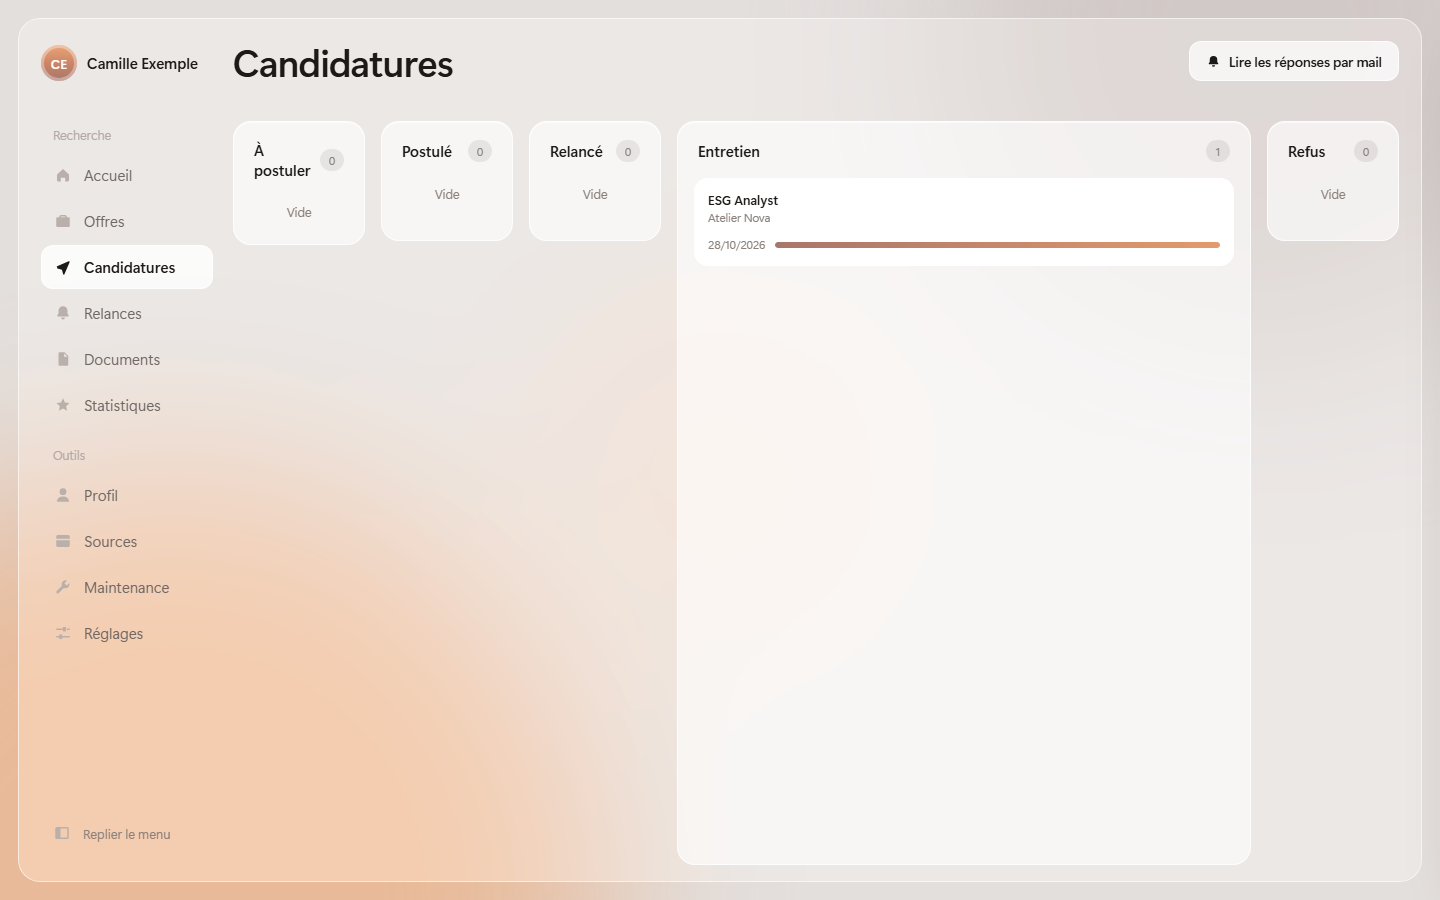
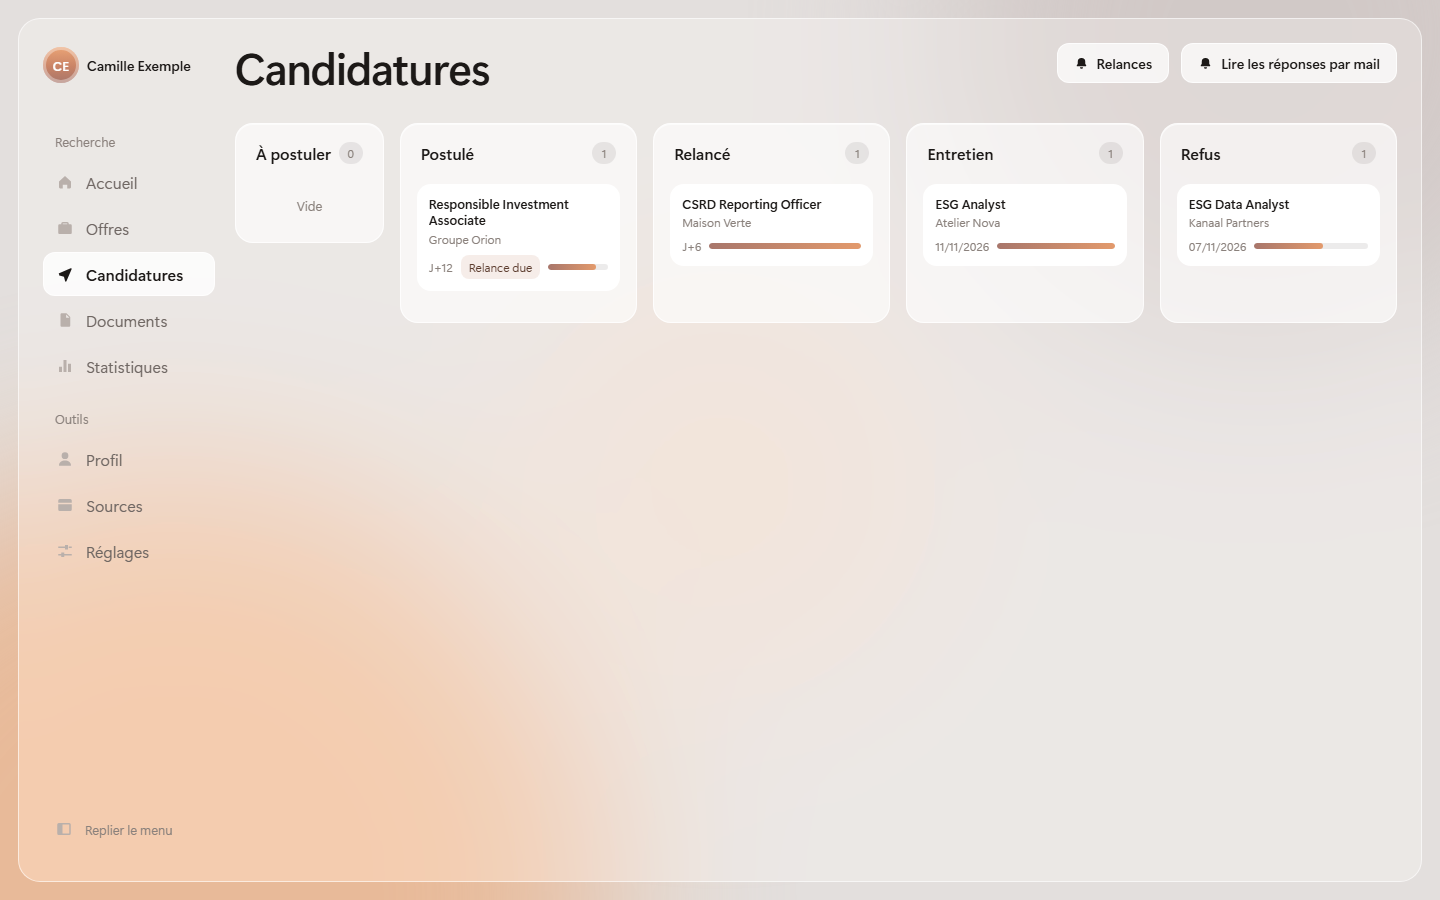
Home: offers already followed no longer « to process »; sandbox with four applications; README and Store screenshots of today
- The home screen counted as « notées 8+ à traiter », and listed among the best
  offers, offers one had already applied to or dismissed: the offers screen's
  « À traiter » leaves out every offer in the applications, the home screen did not.
  On the real queue, 27 such offers: 2 964 counted, 2 937 now. Test red before.
- The sandbox and the screenshots' folder get one application per board column
  (applied 12 days ago with its follow-up due, followed up, interview, rejected),
  dated from today, so the board, the follow-ups and the statistics show something.
- README (en) and Store (fr) screenshots regenerated with tools/screenshots.py: the
  ones of 3.52 still showed the star and lightning icons DESIGN.md removed, and the
  old menu.

diff --git a/src/jobhunter/programs/sandbox.py b/src/jobhunter/programs/sandbox.py
@@ -103,6 +103,13 @@ with queue_io.transaction() as q:
 """
 
 
+def _il_y_a(jours: int) -> str:
+    """The date `jours` days ago, as the applications write it (YYYY-MM-DD)."""
+    import datetime
+
+    return (datetime.date.today() - datetime.timedelta(days=jours)).isoformat()
+
+
 def preparer(racine: Path) -> None:
     """The fictitious data folder, in the 3.0 layout."""
     jour = time.strftime("%Y-%m-%d")
@@ -157,7 +164,24 @@ def preparer(racine: Path) -> None:
             "s": "entretien",
             "d": jour,
             "h": [["2026-10-01", "postulé"], [jour, "entretien"]],
-        }
+        },
+        # 3.87: one application per column, so the board, the follow-ups and the
+        # statistics show something (one card alone looked like an empty application)
+        "Groupe Orion|Responsible Investment Associate": {
+            "s": "postulé",
+            "d": _il_y_a(12),
+            "h": [[_il_y_a(12), "postulé"]],
+        },
+        "Maison Verte|CSRD Reporting Officer": {
+            "s": "relancé",
+            "d": _il_y_a(6),
+            "h": [[_il_y_a(27), "postulé"], [_il_y_a(6), "relancé"]],
+        },
+        "Kanaal Partners|ESG Data Analyst": {
+            "s": "refus",
+            "d": _il_y_a(4),
+            "h": [[_il_y_a(18), "postulé"], [_il_y_a(4), "refus"]],
+        },
     }
     (racine / "data" / "applications.json").write_text(
         json.dumps(suivi, ensure_ascii=False, indent=1), encoding="utf-8"

diff --git a/tests/test_web_api.py b/tests/test_web_api.py
@@ -49,6 +49,20 @@ def test_meilleures_seulement_a_traiter_par_fit_puis_fit_fin():
     assert d["stats"]["neuf"] == 2
 
 
+def test_l_accueil_ne_compte_pas_les_offres_deja_suivies_comme_a_traiter():
+    # As the offers screen's « À traiter »: an offer applied to or dismissed is no longer
+    # among the best offers nor in « notées 8+ à traiter » (2026-11-11).
+    file = [_offre("A", "a", 10), _offre("B", "b", 9), _offre("C", "c", 9)]
+    suivi = {
+        "A|a": {"s": "relancé", "d": "2026-10-20"},
+        "C|c": {"s": "mauvaise", "d": "2026-10-24"},
+    }
+    d = tableau(file, suivi, JOUR)
+    assert [o["entreprise"] for o in d["meilleures"]] == ["B"]
+    assert d["stats"]["neuf"] == 1
+    assert offres(file, suivi)["total"] == 1  # the same count as the offers screen
+
+
 def test_relances_apres_sept_jours_et_candidatures_sans_les_ecartees():
     suivi = {
         "A|a": {"s": "postulé", "d": "2026-10-10"},

diff --git a/src/jobhunter/web/api.py b/src/jobhunter/web/api.py
@@ -111,7 +111,12 @@ def tableau(
     derniers = sorted(scans)[-7:]
     collecte = [{"jour": j, "n": scans[j]} for j in derniers]
 
-    a_traiter = [o for o in offres if _RX_SCAN.match(str(o.get("statut") or ""))]
+    # To process, as on the offers screen: from a scan, and not followed yet. An offer one
+    # had applied to (or dismissed) still counted among « notées 8+ à traiter » and
+    # showed among the best offers (2026-11-11).
+    a_traiter = [
+        o for o in offres if _RX_SCAN.match(str(o.get("statut") or "")) and _oid(o) not in suivi
+    ]
     # Six at most: the page shows as many as the chart beside them is tall (ajusterAccueil).
     meilleures = sorted(a_traiter, key=lambda o: (-_fit(o), -_fit(o, "fit_fin")))[:6]
 
